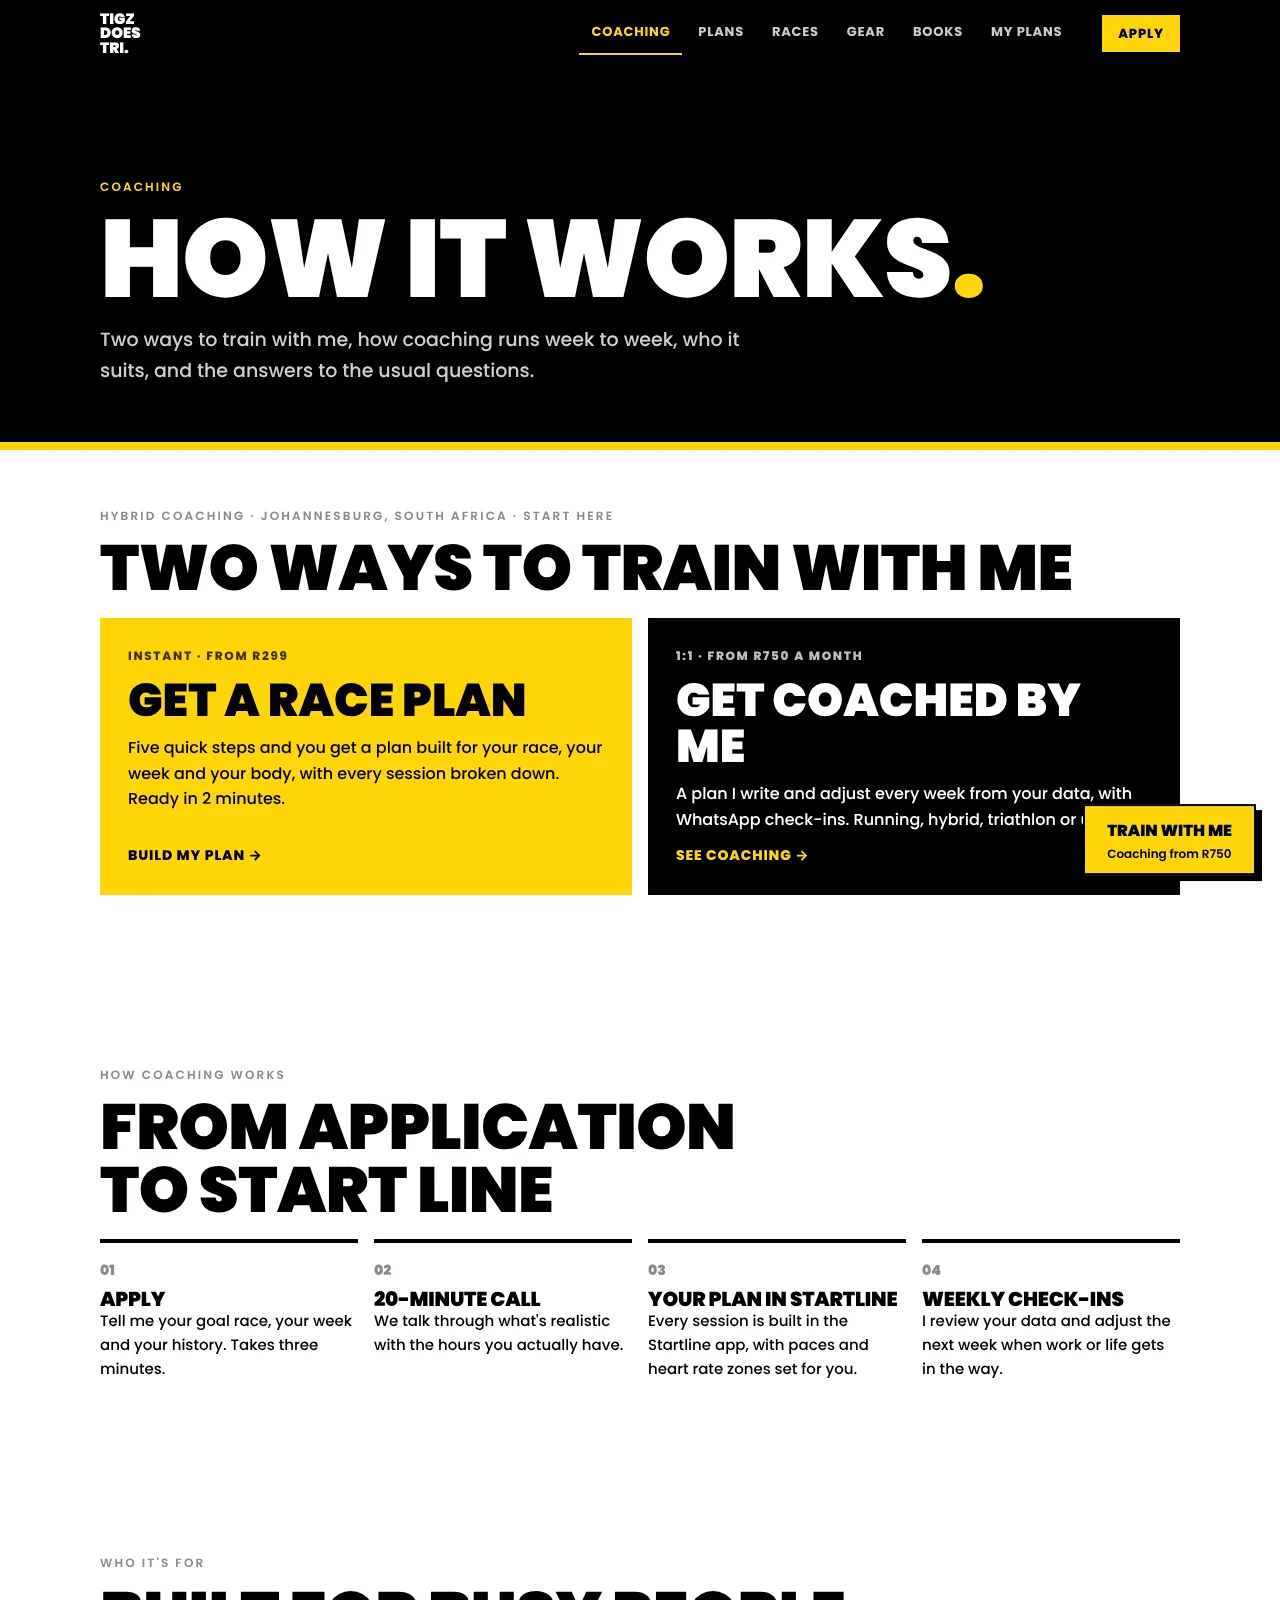
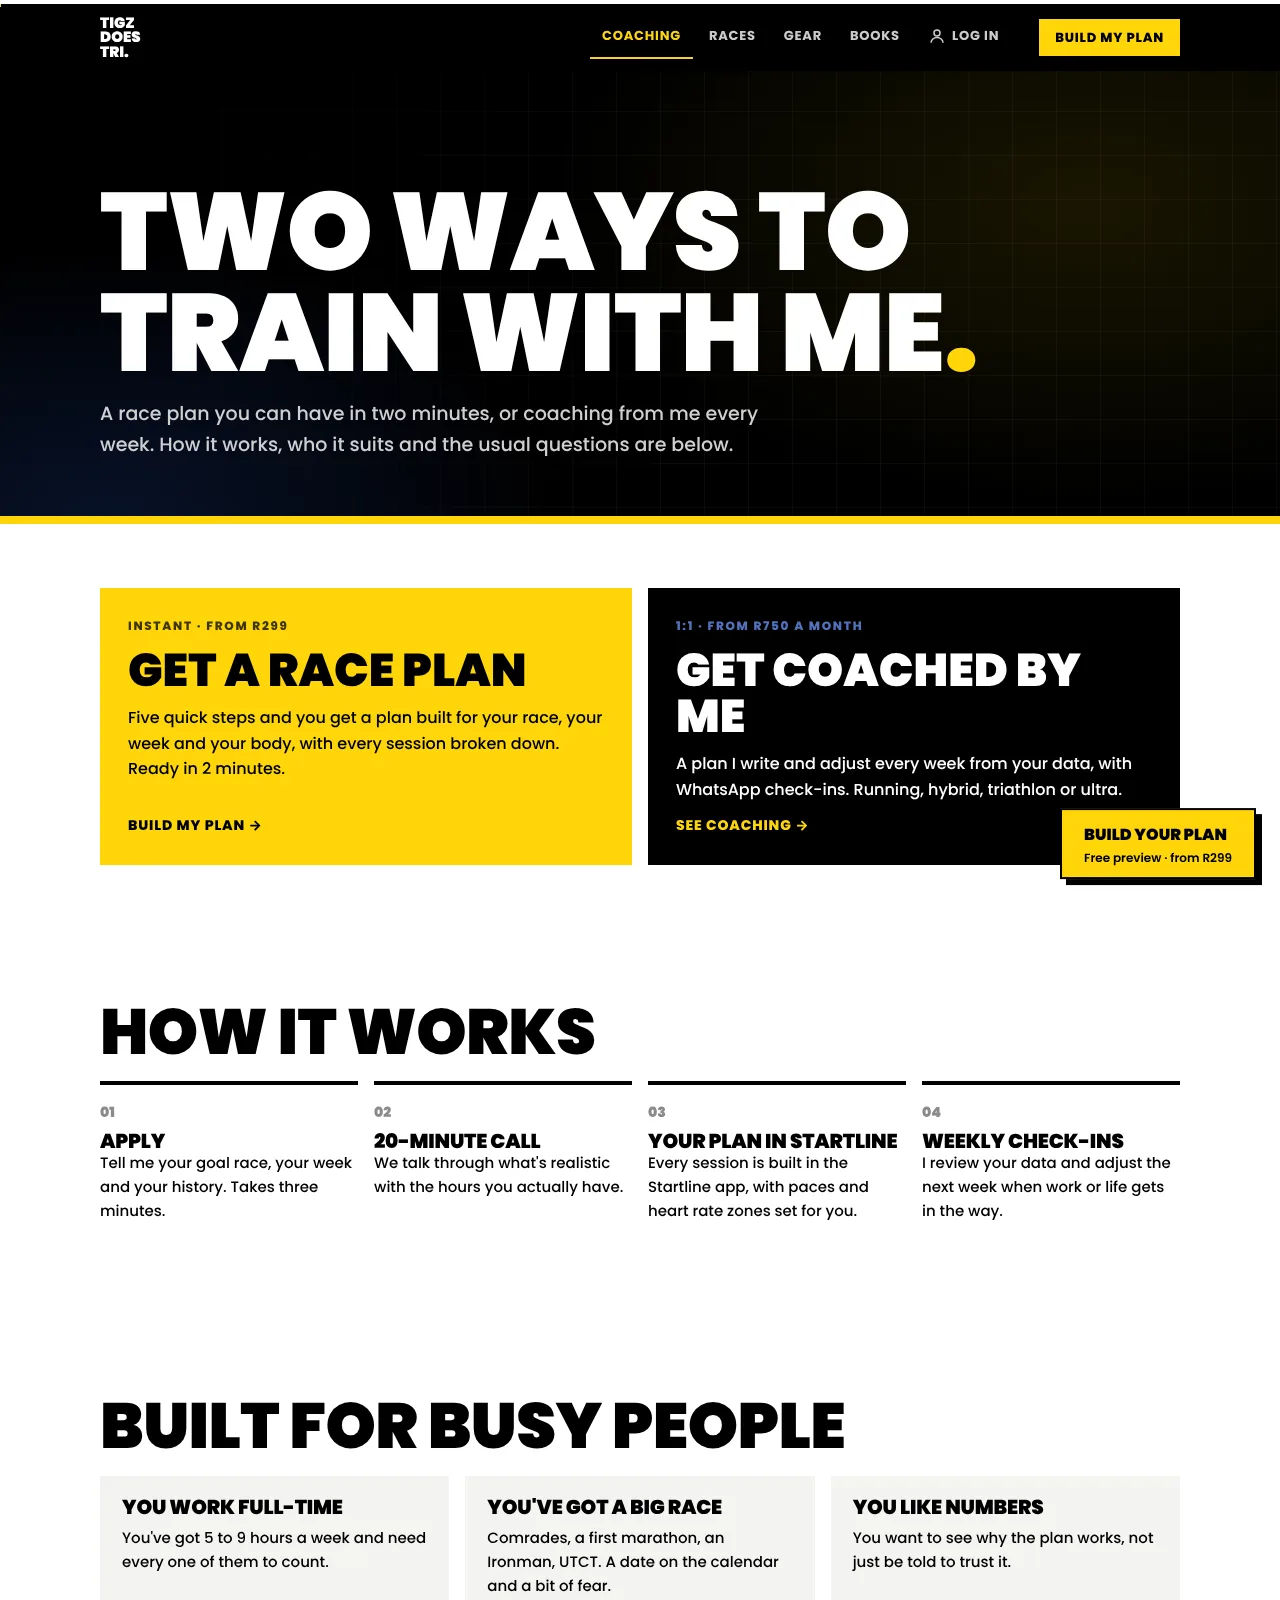
TigzDoesTri: fresh screenshots and copy for the live plan builder; add the TigzDoesTri brand to the branding page
Claude-Session: https://claude.ai/code/session_01UXXcUucnSfuN5ZBDDhgEJA

diff --git a/work.html b/work.html
@@ -105,11 +105,11 @@
       <div class="browser "><div class="bbar"><span class="bdots"><i></i><i></i><i></i></span><span class="burl"><svg viewBox="0 0 24 24" fill="none" stroke="currentColor" stroke-width="1.8" stroke-linecap="round" stroke-linejoin="round" aria-hidden="true"><circle cx="12" cy="12" r="8.5"/><path d="M3.5 12h17M12 3.5c2.6 2.4 3.8 5.2 3.8 8.5s-1.2 6.1-3.8 8.5c-2.6-2.4-3.8-5.2-3.8-8.5s1.2-6.1 3.8-8.5Z"/></svg>tigzdoestri.com</span></div><div class="bview shot"><img src="/img/sites/tigzsite.webp" alt="The tigzdoestri.com home page" width="1280" height="1600" loading="lazy" decoding="async"></div></div>
       <div class="case-body">
         <span class="case-logo cbadge"><img src="/img/logos/tigzdoestri.webp" alt="TigzDoesTri logo" width="56" height="56" loading="lazy" decoding="async"></span>
-        <span class="status"><i></i>Live · plan builder coming soon</span>
+        <span class="status"><i></i>Live · plan builder live</span>
         <h2>TigzDoesTri website<span class="dot">.</span></h2>
-        <p class="lead">Our founder's coaching website for runners and triathletes, live at tigzdoestri.com. Its race plans run on the same engine as Startline.</p>
-        <ul class="checks"><li><svg viewBox="0 0 24 24" fill="none" stroke="currentColor" stroke-width="1.8" stroke-linecap="round" stroke-linejoin="round" aria-hidden="true"><path d="M5 12.5l4.2 4.2L19 7"/></svg><span>Coaching packages with a three-question picker that points you to the right one</span></li><li><svg viewBox="0 0 24 24" fill="none" stroke="currentColor" stroke-width="1.8" stroke-linecap="round" stroke-linejoin="round" aria-hidden="true"><path d="M5 12.5l4.2 4.2L19 7"/></svg><span>A race calendar, PBs and results, pulled from the Startline app</span></li><li><svg viewBox="0 0 24 24" fill="none" stroke="currentColor" stroke-width="1.8" stroke-linecap="round" stroke-linejoin="round" aria-hidden="true"><path d="M5 12.5l4.2 4.2L19 7"/></svg><span>Gear and bookshelf pages, with a page for every book</span></li><li><svg viewBox="0 0 24 24" fill="none" stroke="currentColor" stroke-width="1.8" stroke-linecap="round" stroke-linejoin="round" aria-hidden="true"><path d="M5 12.5l4.2 4.2L19 7"/></svg><span>Coaching application form</span></li><li><svg viewBox="0 0 24 24" fill="none" stroke="currentColor" stroke-width="1.8" stroke-linecap="round" stroke-linejoin="round" aria-hidden="true"><path d="M5 12.5l4.2 4.2L19 7"/></svg><span>Coming soon: a step-by-step plan builder and My plans with Google sign-in</span></li></ul>
-        <div class="site-foot"><a class="btn btn-primary btn-sm" href="https://tigzdoestri.com" target="_blank" rel="noopener">Visit tigzdoestri.com<svg viewBox="0 0 24 24" fill="none" stroke="currentColor" stroke-width="1.8" stroke-linecap="round" stroke-linejoin="round" aria-hidden="true"><path d="M7 17 17 7M9 7h8v8"/></svg></a><a class="btn btn-ghost btn-sm" href="#tigzdoestri">The TigzDoesTri brand<svg class="arr" viewBox="0 0 24 24" fill="none" stroke="currentColor" stroke-width="1.8" stroke-linecap="round" stroke-linejoin="round" aria-hidden="true"><path d="M5 12h14M13 6l6 6-6 6"/></svg></a></div>
+        <p class="lead">Our founder's coaching website for runners and triathletes, live at tigzdoestri.com. Its free race plan builder runs on the <a class="link" href="/startline-engine">Startline Engine</a>.</p>
+        <ul class="checks"><li><svg viewBox="0 0 24 24" fill="none" stroke="currentColor" stroke-width="1.8" stroke-linecap="round" stroke-linejoin="round" aria-hidden="true"><path d="M5 12.5l4.2 4.2L19 7"/></svg><span>A free race plan builder for 1,200+ South African races, 5 km to Ironman: see two weeks free, unlock from R299</span></li><li><svg viewBox="0 0 24 24" fill="none" stroke="currentColor" stroke-width="1.8" stroke-linecap="round" stroke-linejoin="round" aria-hidden="true"><path d="M5 12.5l4.2 4.2L19 7"/></svg><span>Plans paced from the athlete's own fitness, with no injury-risk spikes</span></li><li><svg viewBox="0 0 24 24" fill="none" stroke="currentColor" stroke-width="1.8" stroke-linecap="round" stroke-linejoin="round" aria-hidden="true"><path d="M5 12.5l4.2 4.2L19 7"/></svg><span>1:1 run, hybrid and triathlon coaching from R750 a month</span></li><li><svg viewBox="0 0 24 24" fill="none" stroke="currentColor" stroke-width="1.8" stroke-linecap="round" stroke-linejoin="round" aria-hidden="true"><path d="M5 12.5l4.2 4.2L19 7"/></svg><span>Race reports with splits, GPX routes and photos, plus gear and 30 book reviews with notes</span></li><li><svg viewBox="0 0 24 24" fill="none" stroke="currentColor" stroke-width="1.8" stroke-linecap="round" stroke-linejoin="round" aria-hidden="true"><path d="M5 12.5l4.2 4.2L19 7"/></svg><span>My plans: sign in to see your plan on the site</span></li></ul>
+        <div class="site-foot"><a class="btn btn-primary btn-sm" href="https://tigzdoestri.com" target="_blank" rel="noopener">Visit tigzdoestri.com<svg viewBox="0 0 24 24" fill="none" stroke="currentColor" stroke-width="1.8" stroke-linecap="round" stroke-linejoin="round" aria-hidden="true"><path d="M7 17 17 7M9 7h8v8"/></svg></a><a class="btn btn-ghost btn-sm" href="https://tigzdoestri.com/plan" target="_blank" rel="noopener">Try the plan builder<svg viewBox="0 0 24 24" fill="none" stroke="currentColor" stroke-width="1.8" stroke-linecap="round" stroke-linejoin="round" aria-hidden="true"><path d="M7 17 17 7M9 7h8v8"/></svg></a></div>
       </div>
     </article>
     <div class="sites" style="grid-template-columns:minmax(0,1fr);margin-top:clamp(12px,1.6vw,20px)">

diff --git a/branding-packages.html b/branding-packages.html
@@ -64,6 +64,14 @@
     
   </div>
 </section>
+<section class="section" id="example">
+  <div class="wrap">
+    <div class="head reveal"><div><h2 class="h2">A brand we built: TigzDoesTri<span class="dot">.</span></h2><p class="lead">Our founder's coaching and YouTube brand: one look, used everywhere it shows up.</p></div></div>
+    <figure class="brand-board reveal"><img src="/img/sites/tigzbrand.webp" alt="TigzDoesTri brand board: the stacked wordmark, colour palette, Poppins type, the website and a race shirt" width="1600" height="1000" loading="lazy" decoding="async"></figure>
+    <div class="lp-grid reveal" style="margin-top:clamp(18px,2.4vw,28px)"><ul class="checks"><li><svg viewBox="0 0 24 24" fill="none" stroke="currentColor" stroke-width="1.8" stroke-linecap="round" stroke-linejoin="round" aria-hidden="true"><path d="M5 12.5l4.2 4.2L19 7"/></svg><span>A stacked wordmark with a hi-vis yellow full stop, plus a square badge for profile pictures and kit</span></li><li><svg viewBox="0 0 24 24" fill="none" stroke="currentColor" stroke-width="1.8" stroke-linecap="round" stroke-linejoin="round" aria-hidden="true"><path d="M5 12.5l4.2 4.2L19 7"/></svg><span>Four colours: hi-vis yellow, black, white and ash</span></li><li><svg viewBox="0 0 24 24" fill="none" stroke="currentColor" stroke-width="1.8" stroke-linecap="round" stroke-linejoin="round" aria-hidden="true"><path d="M5 12.5l4.2 4.2L19 7"/></svg><span>One typeface, Poppins: Black for headlines, SemiBold for labels</span></li><li><svg viewBox="0 0 24 24" fill="none" stroke="currentColor" stroke-width="1.8" stroke-linecap="round" stroke-linejoin="round" aria-hidden="true"><path d="M5 12.5l4.2 4.2L19 7"/></svg><span>Used on the website, the plan PDFs, YouTube and the race shirt designs</span></li><li><svg viewBox="0 0 24 24" fill="none" stroke="currentColor" stroke-width="1.8" stroke-linecap="round" stroke-linejoin="round" aria-hidden="true"><path d="M5 12.5l4.2 4.2L19 7"/></svg><span>A one-page print spec so any printer gets the colours right</span></li></ul>
+      <div class="ctas" style="align-self:start"><a class="btn btn-primary" href="https://tigzdoestri.com" target="_blank" rel="noopener">See it live<svg viewBox="0 0 24 24" fill="none" stroke="currentColor" stroke-width="1.8" stroke-linecap="round" stroke-linejoin="round" aria-hidden="true"><path d="M7 17 17 7M9 7h8v8"/></svg></a><a class="btn btn-ghost" href="/work#tigzdoestri">The full project<svg class="arr" viewBox="0 0 24 24" fill="none" stroke="currentColor" stroke-width="1.8" stroke-linecap="round" stroke-linejoin="round" aria-hidden="true"><path d="M5 12h14M13 6l6 6-6 6"/></svg></a></div></div>
+  </div>
+</section>
 <section class="section">
   <div class="wrap pt lp-prose">
     <div class="reveal"><h2 class="h2">Which package fits<span class="dot">.</span></h2></div>

diff --git a/index.html b/index.html
@@ -99,8 +99,8 @@
         <div class="browser "><div class="bbar"><span class="bdots"><i></i><i></i><i></i></span><span class="burl"><svg viewBox="0 0 24 24" fill="none" stroke="currentColor" stroke-width="1.8" stroke-linecap="round" stroke-linejoin="round" aria-hidden="true"><circle cx="12" cy="12" r="8.5"/><path d="M3.5 12h17M12 3.5c2.6 2.4 3.8 5.2 3.8 8.5s-1.2 6.1-3.8 8.5c-2.6-2.4-3.8-5.2-3.8-8.5s1.2-6.1 3.8-8.5Z"/></svg>tigzdoestri.com</span></div><div class="bview shot"><img src="/img/sites/tigzsite.webp" alt="The tigzdoestri.com home page" width="1280" height="1600" loading="lazy" decoding="async"></div></div>
         <div class="site-body">
           <h3 class="site-name">TigzDoesTri</h3>
-          <p class="site-desc">Our founder's run and triathlon coaching site: packages, races, gear and books, with a race-plan builder on the way.</p>
-          <div class="chips"><span class="chip">Our own website</span><span class="chip">Coaching packages</span><span class="chip">Race calendar</span><span class="chip">Plan builder</span></div>
+          <p class="site-desc">Our founder's coaching site: a free race plan builder from 5 km to Ironman, 1:1 coaching, race reports, gear and book notes.</p>
+          <div class="chips"><span class="chip">Our own website</span><span class="chip">Plan builder</span><span class="chip">Card payments</span><span class="chip">Startline Engine</span></div>
           <div class="site-foot"><a class="link" href="/work#tigzsite">See the project<svg class="arr" viewBox="0 0 24 24" fill="none" stroke="currentColor" stroke-width="1.8" stroke-linecap="round" stroke-linejoin="round" aria-hidden="true"><path d="M5 12h14M13 6l6 6-6 6"/></svg></a><a class="link" href="https://tigzdoestri.com" target="_blank" rel="noopener">Visit the site<svg viewBox="0 0 24 24" fill="none" stroke="currentColor" stroke-width="1.8" stroke-linecap="round" stroke-linejoin="round" aria-hidden="true"><path d="M7 17 17 7M9 7h8v8"/></svg></a></div>
         </div>
       </article>

diff --git a/assets/styles.css b/assets/styles.css
@@ -1497,3 +1497,5 @@ body:has(input:focus,textarea:focus,select:focus) .wa-fab{opacity:0;pointer-even
 .eng-book blockquote{margin:4px 0;padding:2px 0 2px 16px;border-left:3px solid var(--pa);font-size:14.5px;line-height:1.6;color:var(--ink)}
 .eng-book .in{margin:auto 0 0;padding:12px 14px;border-radius:14px;background:color-mix(in srgb,var(--pa) 8%,transparent);font-size:14px;line-height:1.55;color:var(--ink-2)}
 .eng-book .in b{display:block;font-size:12px;letter-spacing:.08em;text-transform:uppercase;color:var(--pa);margin-bottom:4px}
+.brand-board{margin:0;border-radius:24px;overflow:hidden;border:1px solid var(--line)}
+.brand-board img{display:block;width:100%;height:auto}
